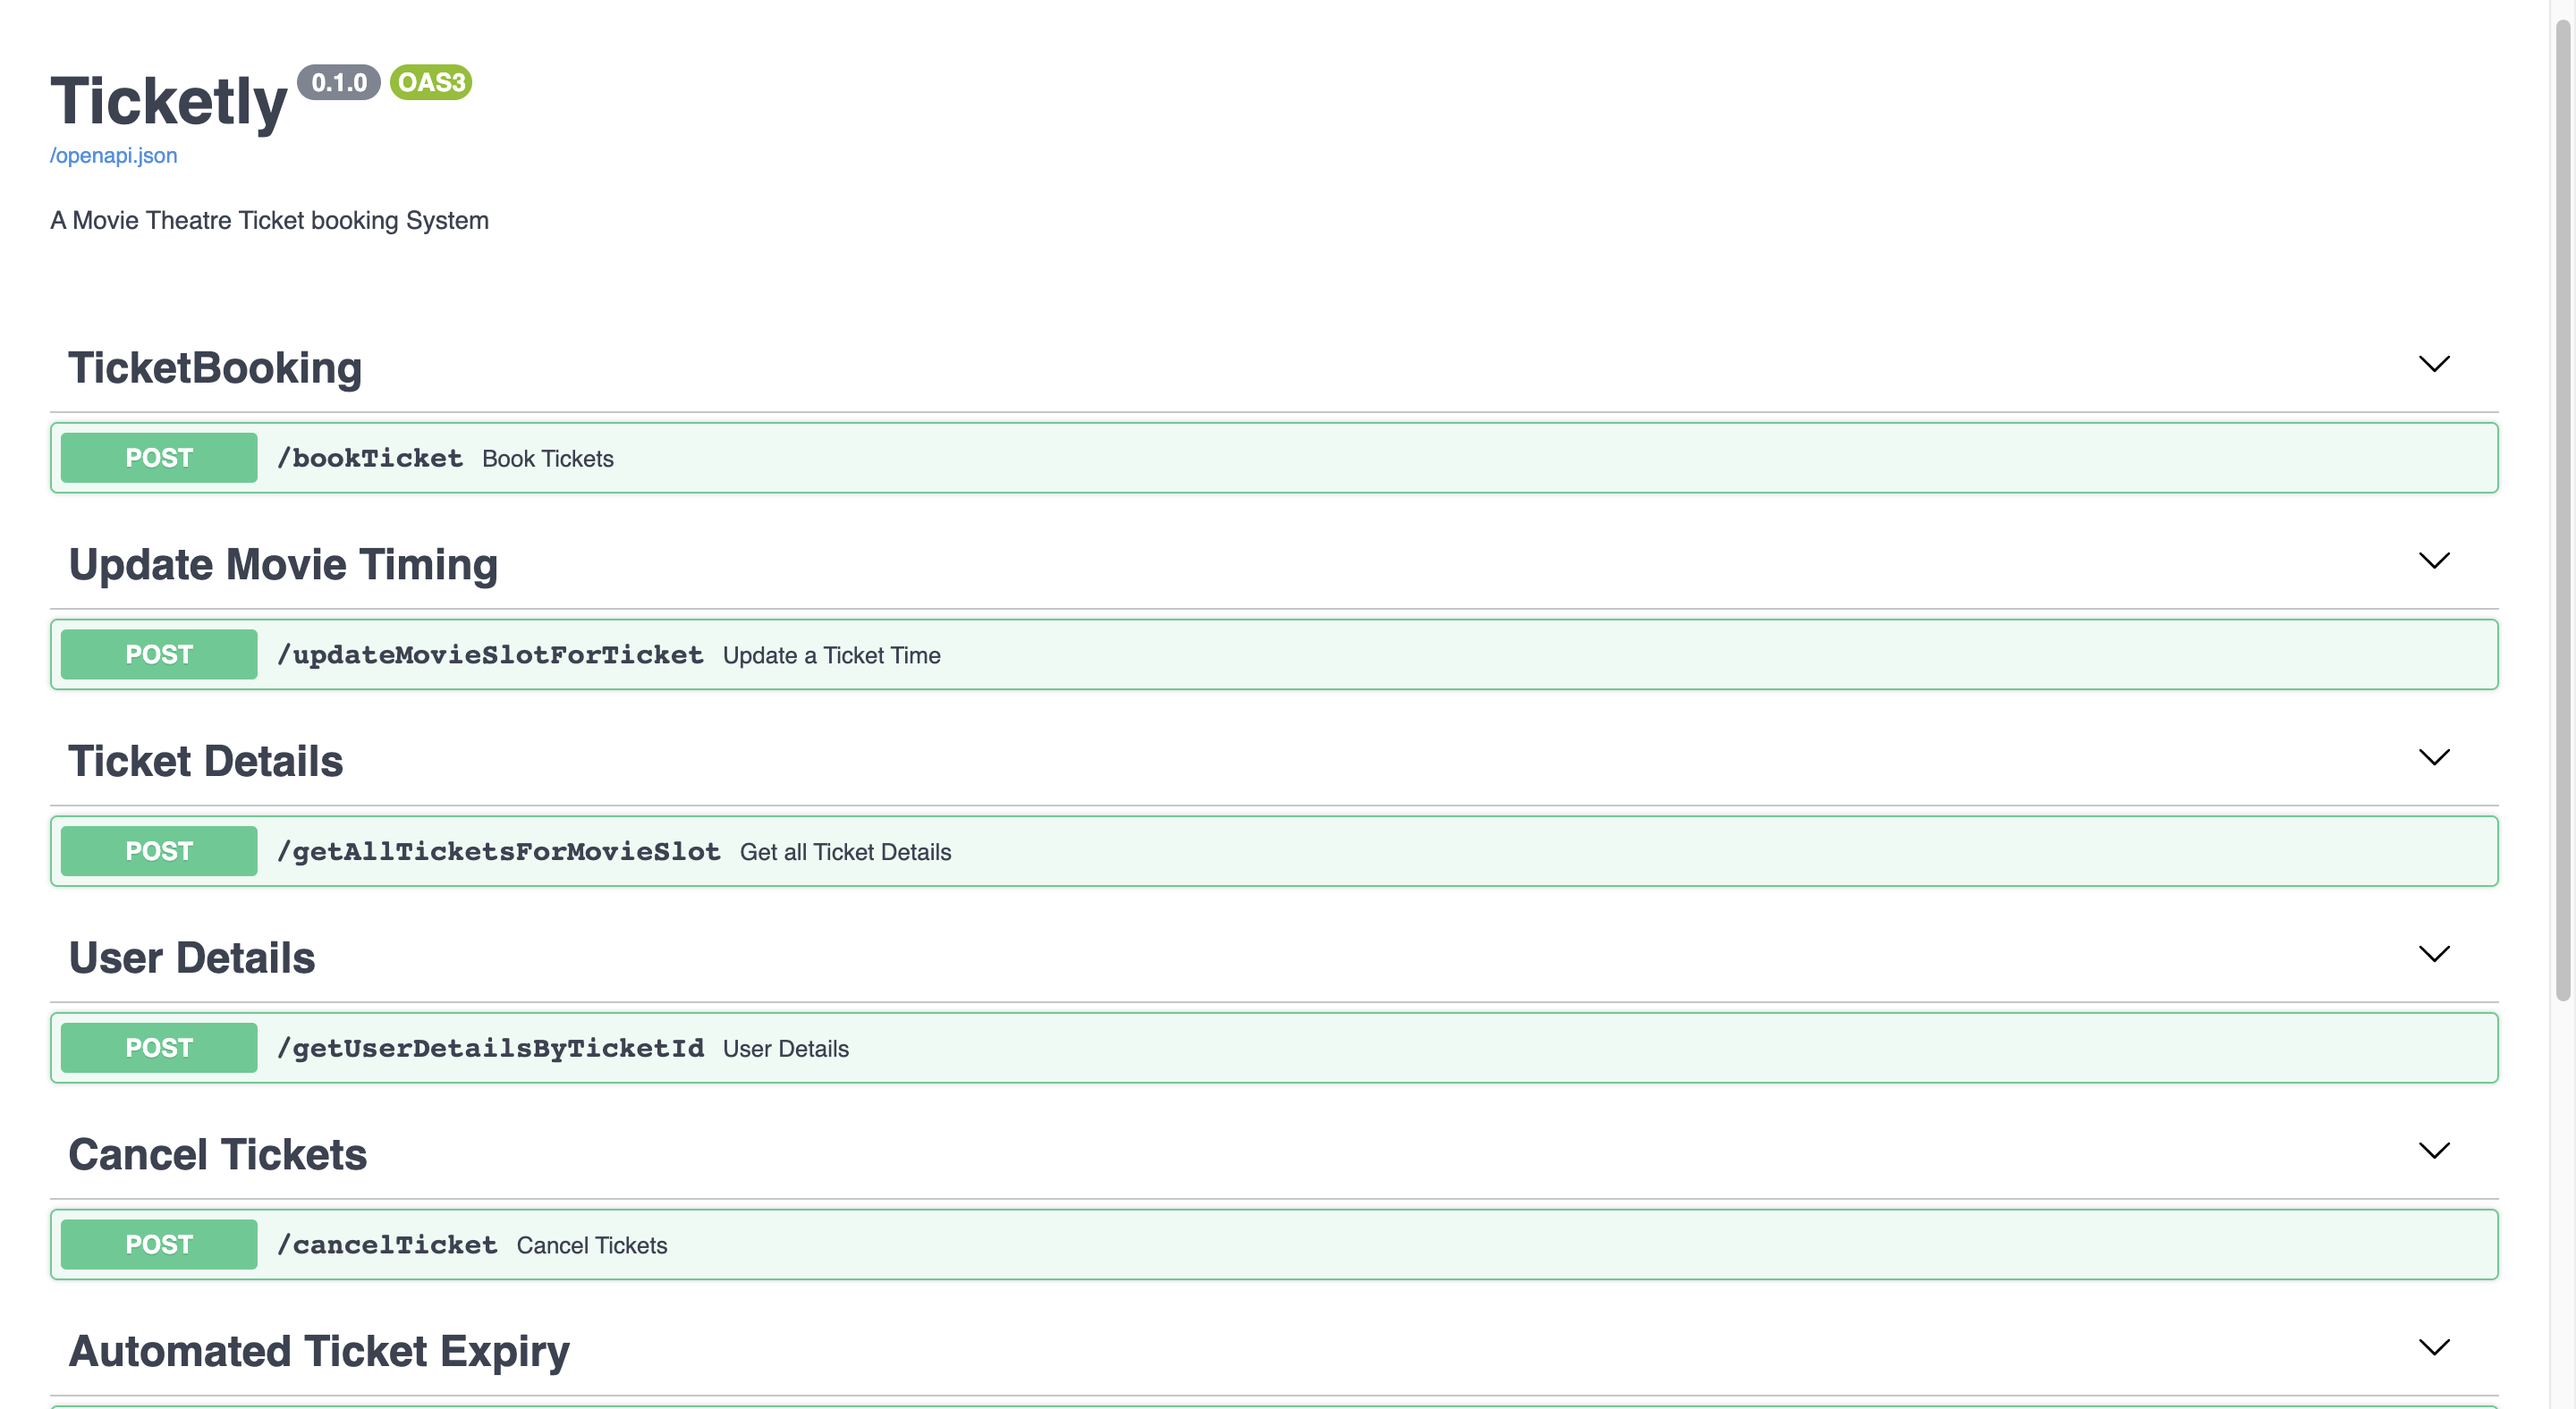
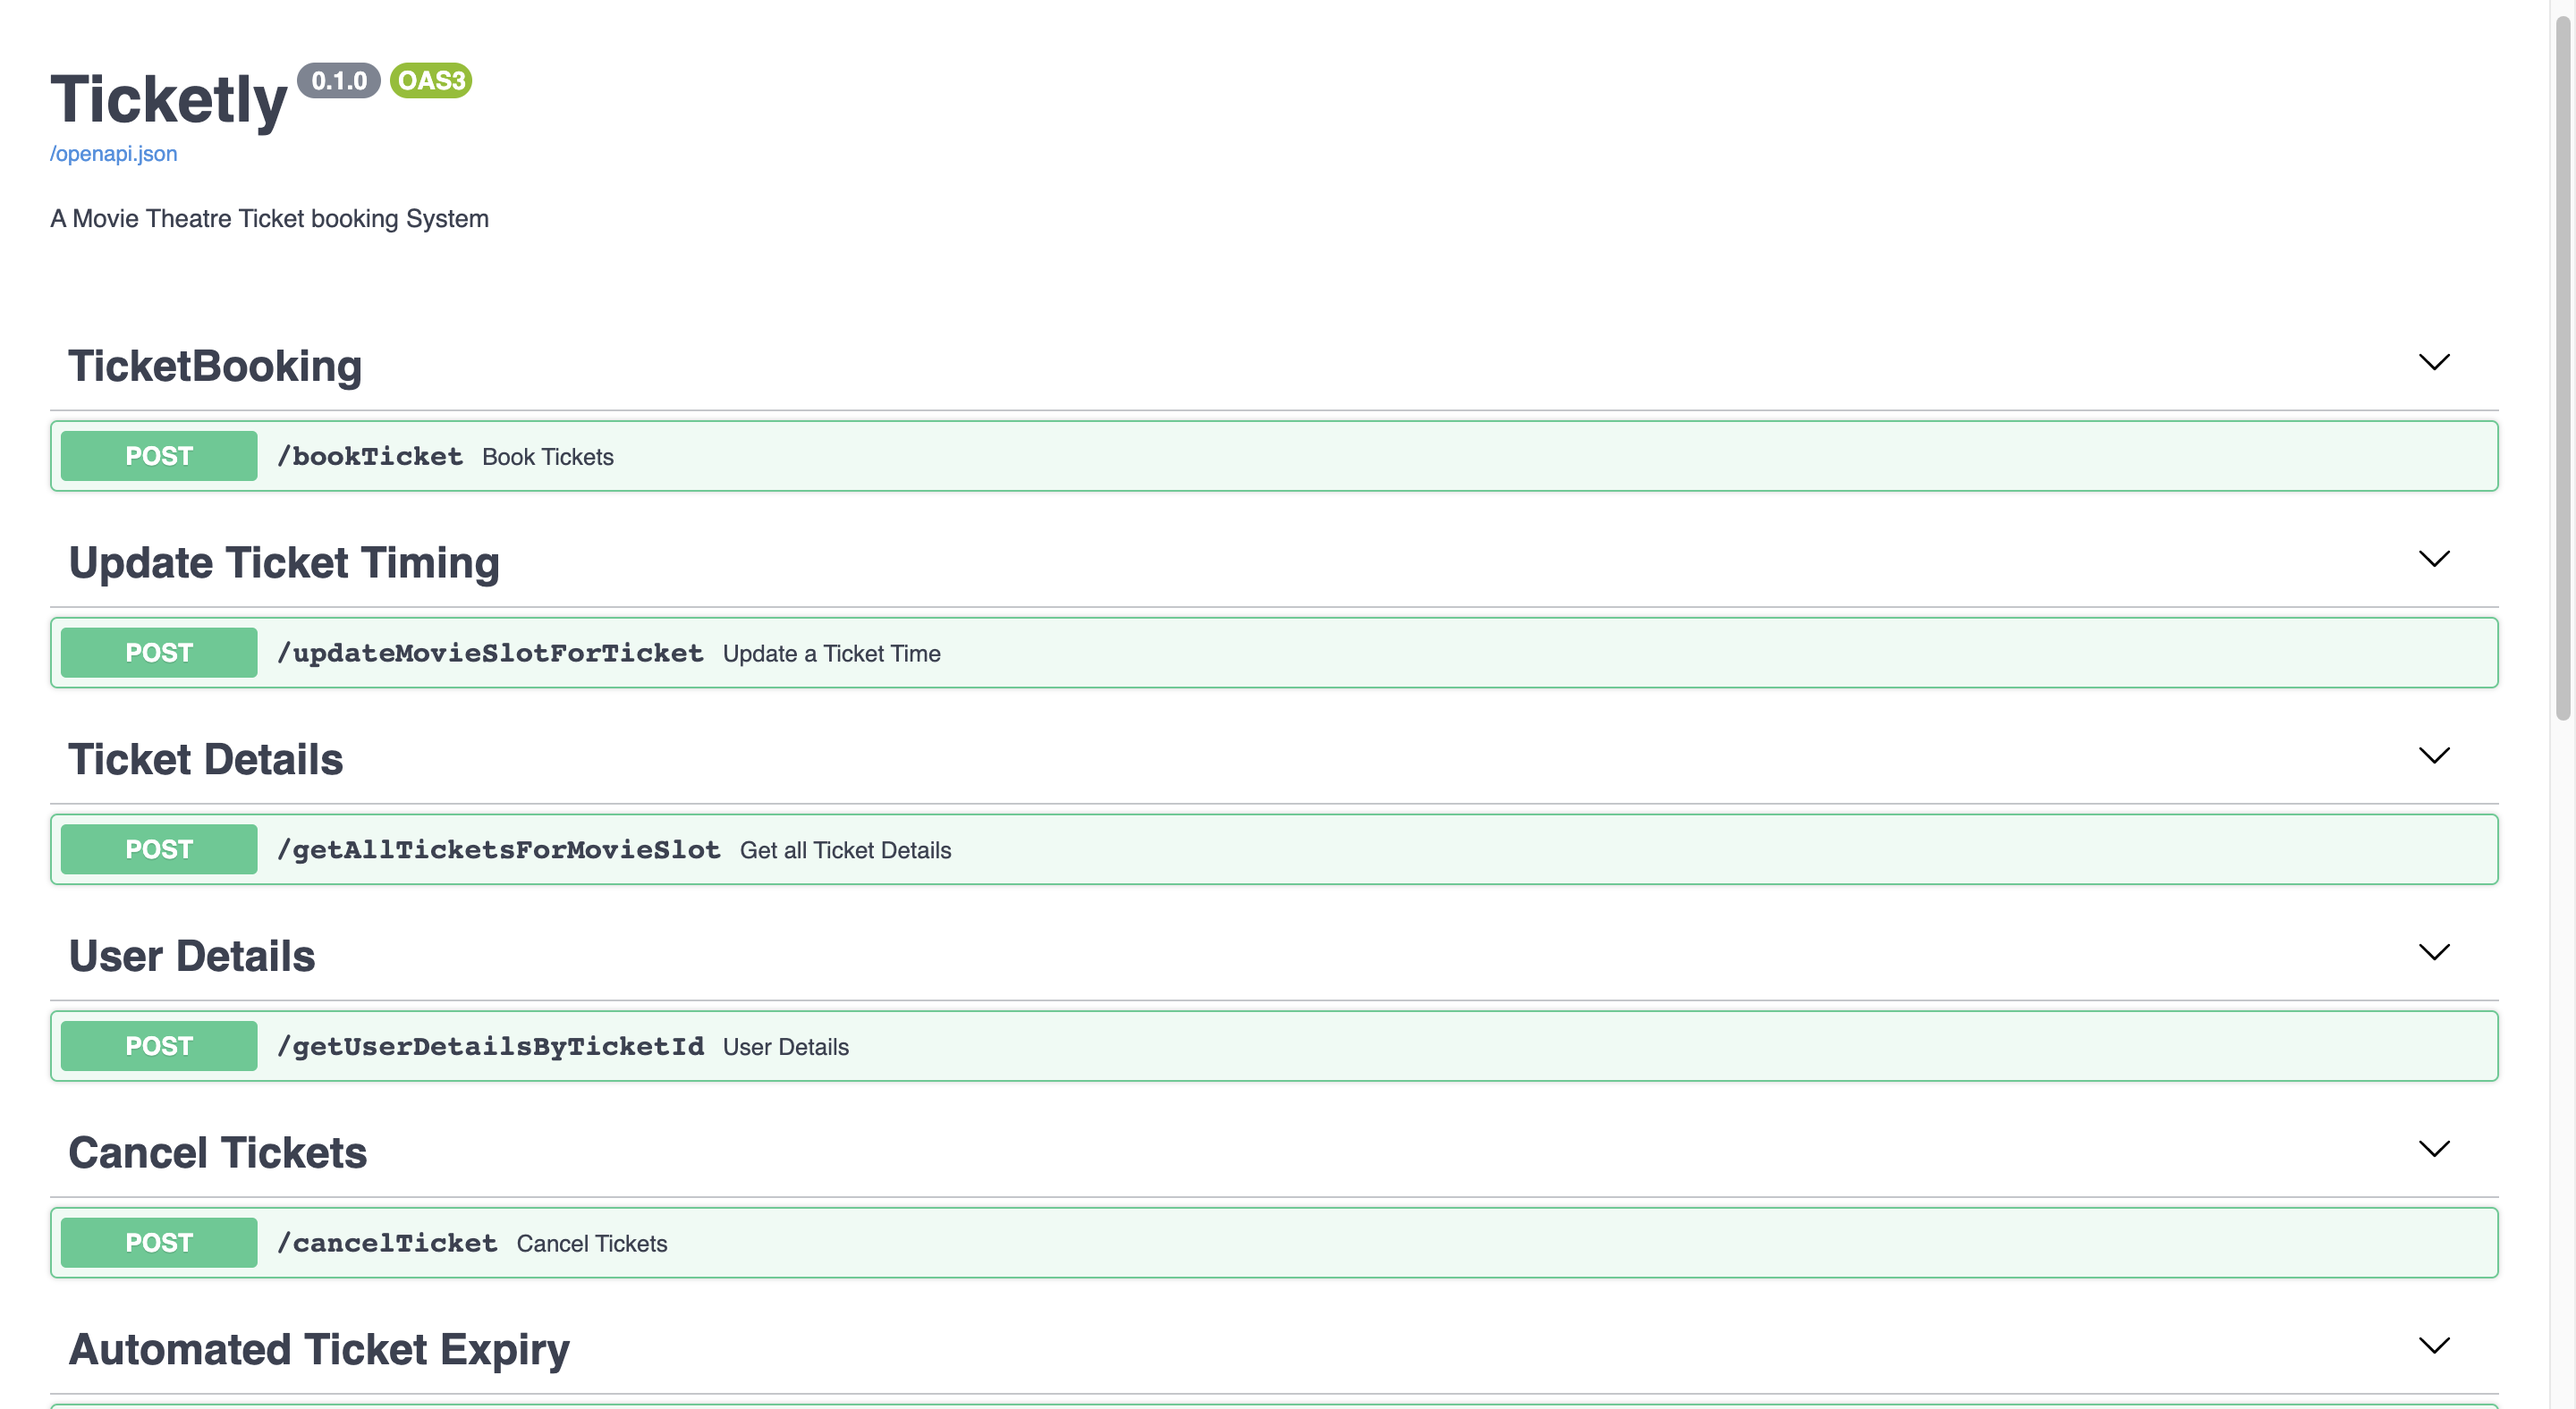
updated Readme

diff --git a/main.py b/main.py
@@ -25,7 +25,7 @@ def bookTicket(userName: str, userPhoneNumber: str, movieName: str, movieStartTi
 @app.post("/updateMovieSlotForTicket",
 summary = "Update a Ticket Time",
 description = "Update Ticket Time by ticketId, newMovie and newStartTime",
-tags=["Update Movie Timing"])
+tags=["Update Ticket Timing"])
 def updateMovieSlotForTicket(ticketId: str, newMovie: str, newStartTime: datetime):
     ticket = ticketAdmin.getTicketById(ticketId)
     ticketSlot = ticketAdmin.resolveTicketSlot(newMovie, newStartTime)[0]

diff --git a/README.md b/README.md
@@ -7,25 +7,75 @@ A Movie Theatre Ticket Booking System Build in Python Using FastAPI.
 
 ## Sample Requests
 
-### Add Movie Slot
+
 
 ### Book User Ticket
 
+```json
+    {
+        "userName": "John", 
+        "userPhoneNumber": "9653864514", 
+        "movieName": "Avatar",
+        "movieStartTime":"2020-11-01 12:22",
+        "numTickets": "3" 
+    }
+```
+
 ### Update Ticket Time
+
+```json
+    {
+        "ticketId": "TKT437664", 
+        "newMovie": "Avatar", 
+        "newStartTime": "2020-11-01 12:22"
+    }
+```
 
 ### Get all Ticket Details
 
+```json
+    {
+        "movieName": "Jumanji", 
+        "movieStartTime": "2017-06-01 12:22"
+    }
+```
+
 ### Get User Details By ticketId
+
+```json
+    {
+        "ticketId": "TKT437664"
+    }
+```
 
 ### Cancel a Ticket By ticketId
 
-### Trigger Tickets Invalidation
+```json
+    {
+        "ticketId": "TKT437664"
+    }
+```
 
-### Movie Scheduler
+### Add Movie Slot
 
-### Get All Movie Slots
+```json
+    {
+        "slotName": "Avatar", 
+        "slotDescription": "Come see avatar", 
+        "startTime": "2017-06-01 12:22",
+        "endTime": "2017-06-01 15:22", 
+        "slotType": "Movie", 
+        "genre": "Animation"
+    }
+```
 
 ### Get All Movie Slots By Genre
+
+```json
+    {
+        "genre": ""
+    }
+```
 
 
 ## Fine-grained API Access
@@ -93,7 +143,7 @@ Build with
 
 
 ```python
-    git clone 
+    git clone https://github.com/almique/Movie_Ticket_Booking.git
     uvicorn main:app --reload
 ```
 
